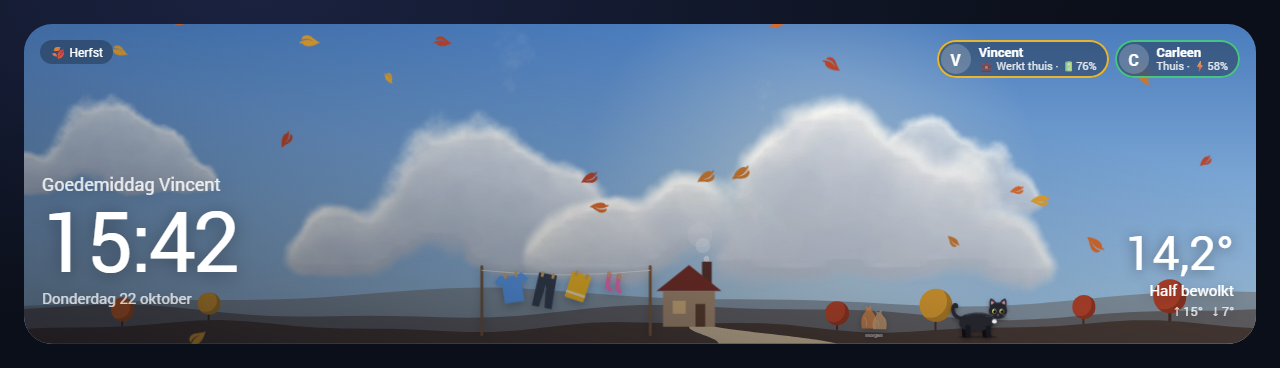
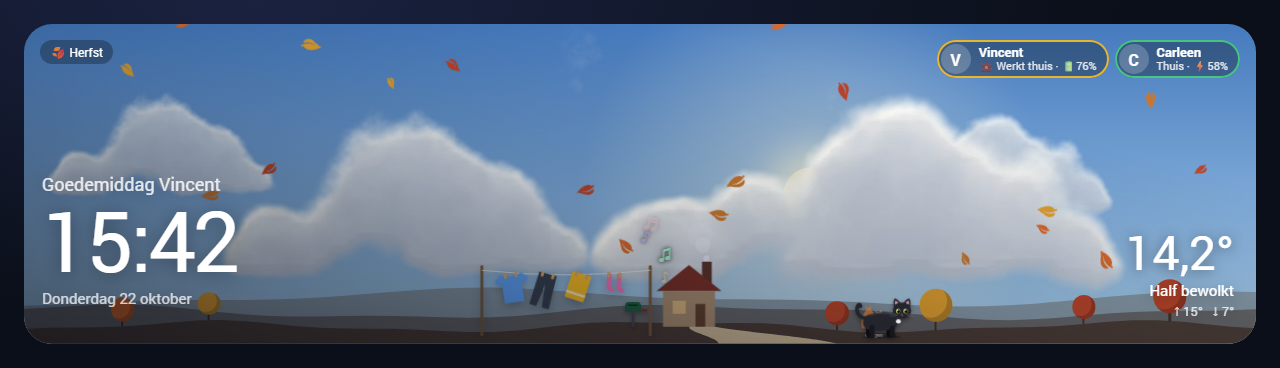
Update the README and screenshots with the new weather card scenes, holidays, Pixel's hats and test scenarios

diff --git a/README.md b/README.md
@@ -34,15 +34,30 @@ required HACS cards are described in [`dashboard/README.md`](dashboard/README.md
 ### Weather card
 
 The heart of the Home page: a live sky (sun and moon at their real position, generated clouds, rain, snow, fog and
-storms) over a landscape that changes with the season and the holidays. It also tells what is going on at home:
-smoke from the chimney and a lit window while someone is home, the laundry on the line (swaying in the wind),
-garbage bags or the paper bin at the curb when they go out, and Pixel wandering around — ten minutes before his
-food he sits at the front door, wagging his tail. The pills show who is home, asleep or working, and kitchen timers
-count down live.
+storms, KNMI weather warnings, and planes overhead from Flightradar24) over a landscape that changes with the season.
+Our house on the hill tells what is going on at home:
+
+- **Who is home** — smoke from the chimney and a lit window; on warm days an open window with a waving curtain instead
+- **Inside** — music notes rising from the roof when a speaker plays, blue TV light behind the window
+- **Outside** — the laundry on the line (swaying in the wind), garbage bags or the paper bin at the curb, a paddling
+  pool with a rubber duck on hot sunny days
+- **Post** — the letterbox fills up when there is mail, and today's parcels stand stacked at the door
+- **On vacation** — curtains closed, a sign by the path and a banner plane; the light is on when the house sitter is there
+- **Pixel** — he wanders around and, ten minutes before his food, sits at the front door wagging his tail, wearing a
+  hat that fits the day: a Santa hat, a mitre, bunny ears, a crown on King's Day, a party hat on birthdays, a rain hat,
+  a woolly hat when it freezes or a straw hat with sunglasses when it's hot
+
+Holidays and our own days get their own decorations: Sinterklaas, Christmas, New Year, Easter, Halloween, King's Day,
+Valentine's Day, Liberation Day, Remembrance Day (the flag at half-mast), our birthdays (also Pixel's) and our
+anniversary. The birthday dates live in Home Assistant helpers, not in this repository. The pills show who is home,
+asleep or working, and kitchen timers count down live. For testing, `?test` in the URL shows drop-downs to pick a
+theme, a time of day and a scenario (weather, warnings, music and TV, post, vacation, ...).
 
 ![Weather card on an autumn afternoon](docs/images/dashboard/weather-card-day.png)
 
 ![Weather card on Christmas Eve](docs/images/dashboard/weather-card-christmas.png)
+
+![King's Day, Halloween night, a hot summer day and being on vacation](docs/images/dashboard/weather-card-moments.png)
 
 ### Alerts on Home
 
